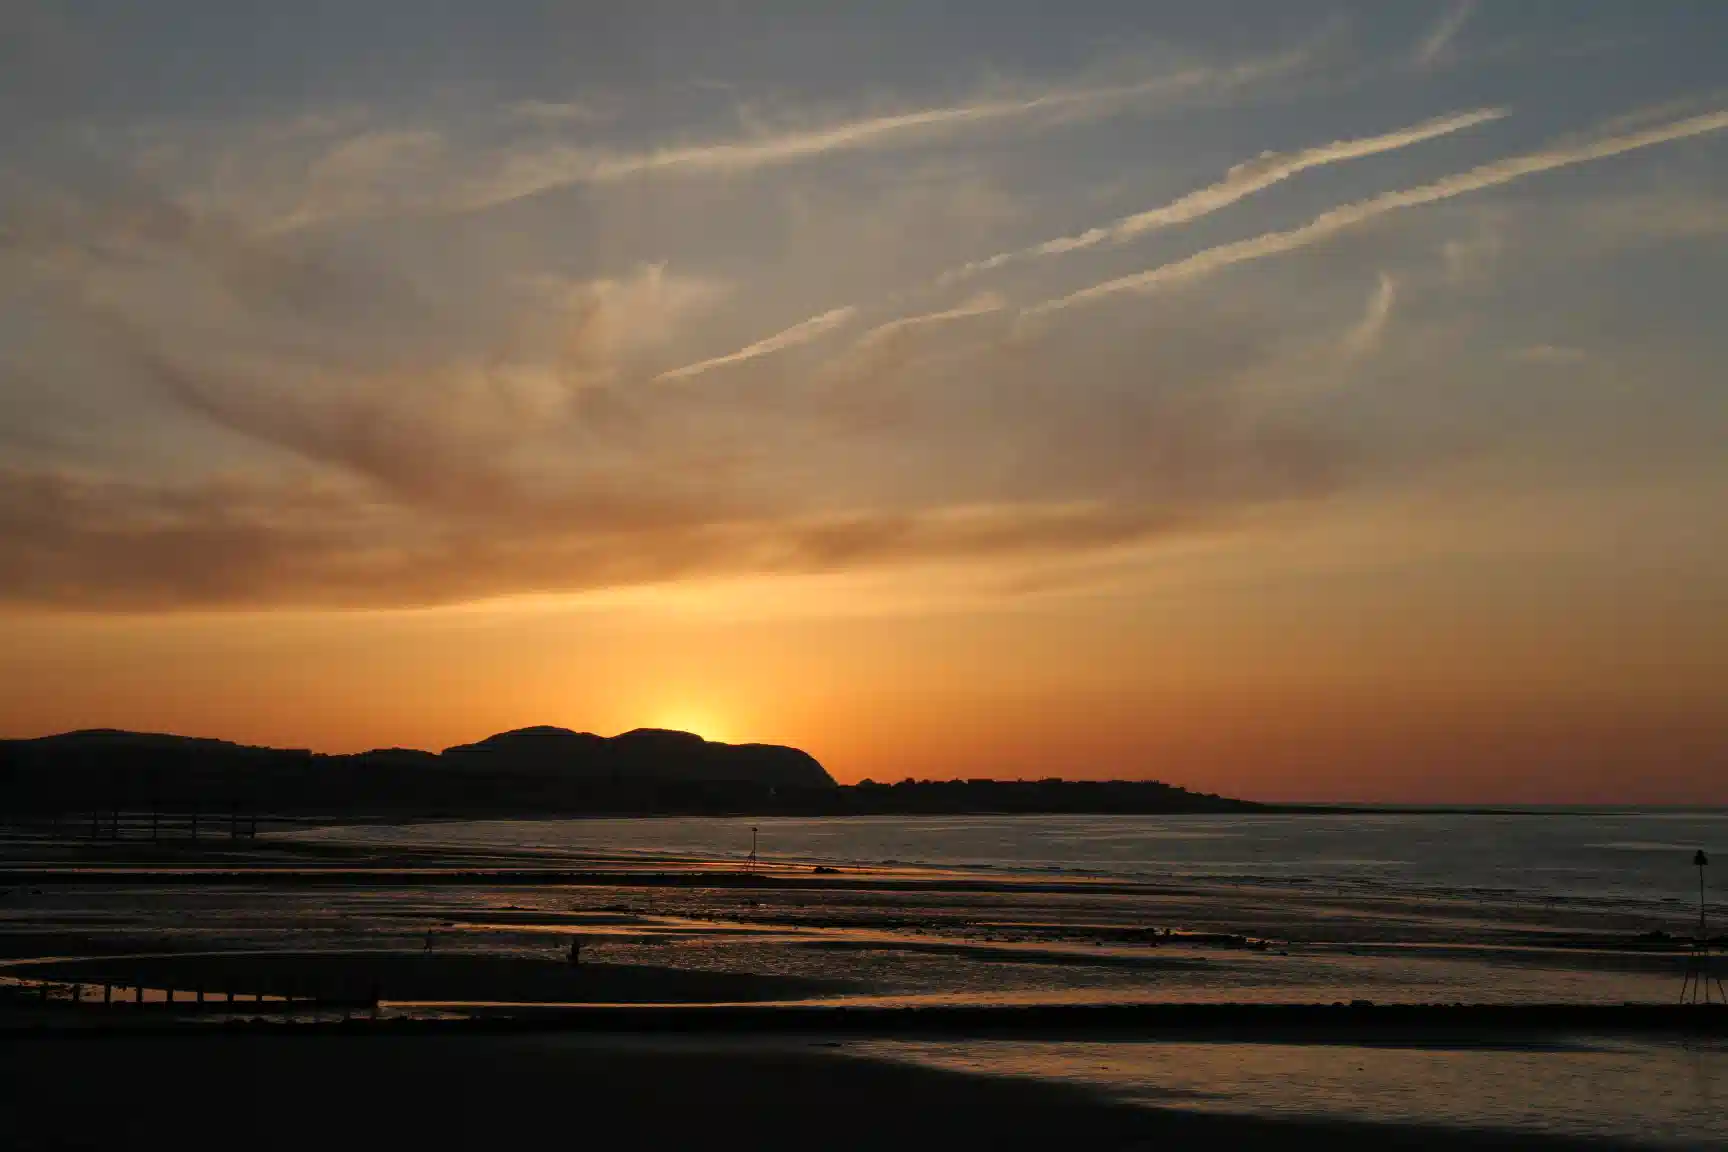
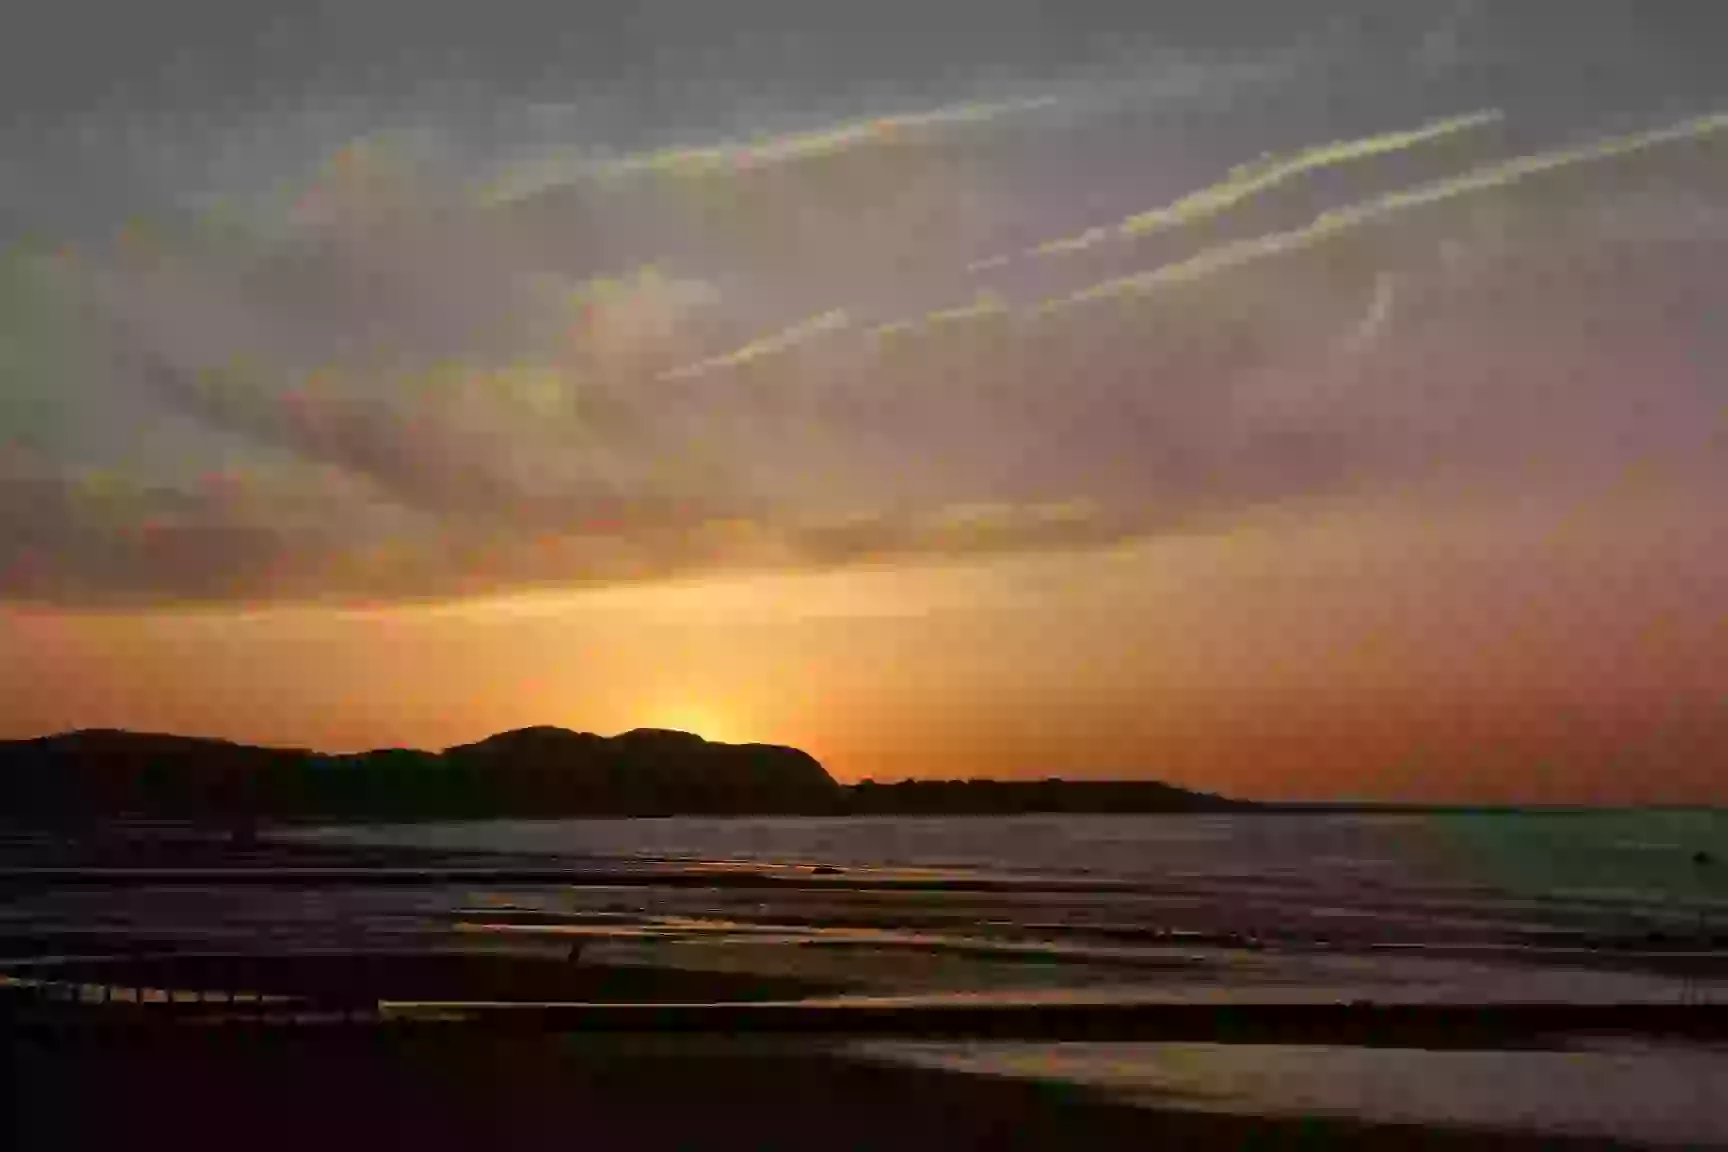
chore: optimise images

diff --git a/assets/css/style.css b/assets/css/style.css
@@ -240,13 +240,13 @@ nav {
 
 /* Carousel Image Slides */
 #slide-1 {
-    background: url('../images/468324613_122267218016002860_3882894567622170301_n.jpg') no-repeat center center / cover;   
+    background: url('../images/468324613_122267218016002860_3882894567622170301_n.webp') no-repeat center center / cover;
 }
 #slide-2 {
-    background: url('../images/454735621_122240727518002860_7492894630105984710_n.jpg') no-repeat center center / cover;    
+    background: url('../images/454735621_122240727518002860_7492894630105984710_n.webp') no-repeat center center / cover;
 }
 #slide-3 {
-    background: url('../images/469111474_122269146176002860_1941981137026856415_n.jpg') no-repeat center center / cover;    
+    background: url('../images/469111474_122269146176002860_1941981137026856415_n.webp') no-repeat center center / cover;
 }
 
 /* Latest News */

diff --git a/index.html b/index.html
@@ -321,10 +321,8 @@
             </div>
         </div>
     </div>
-    <!-- JavaScript for carousel feature -->
-    <script src="assets/js/navscripts.js"></script>
-    <script src="assets/js/carousel.js"></script>
-    <script src="assets/js/contact-form.js"></script>
+    <!-- Utilities JS module that imports various other JS files -->
+    <script src="./assets/js/utilities.js" type="module" defer></script>
 </body>
 
 </html>

diff --git a/groups-and-events.html b/groups-and-events.html
@@ -287,6 +287,6 @@
                 </div>
         </footer>
 </div>
-<script src="assets/js/navscripts.js"></script>
+<script src="assets/js/utilities-files/navscripts.js"></script>
 </body>
 </html>

diff --git a/assets/js/utilities.js b/assets/js/utilities.js
@@ -1,0 +1,4 @@
+import "./utilities-files/carousel.js";
+import "./utilities-files/navscripts.js";
+import "./utilities-files/contact-form.js";
+
